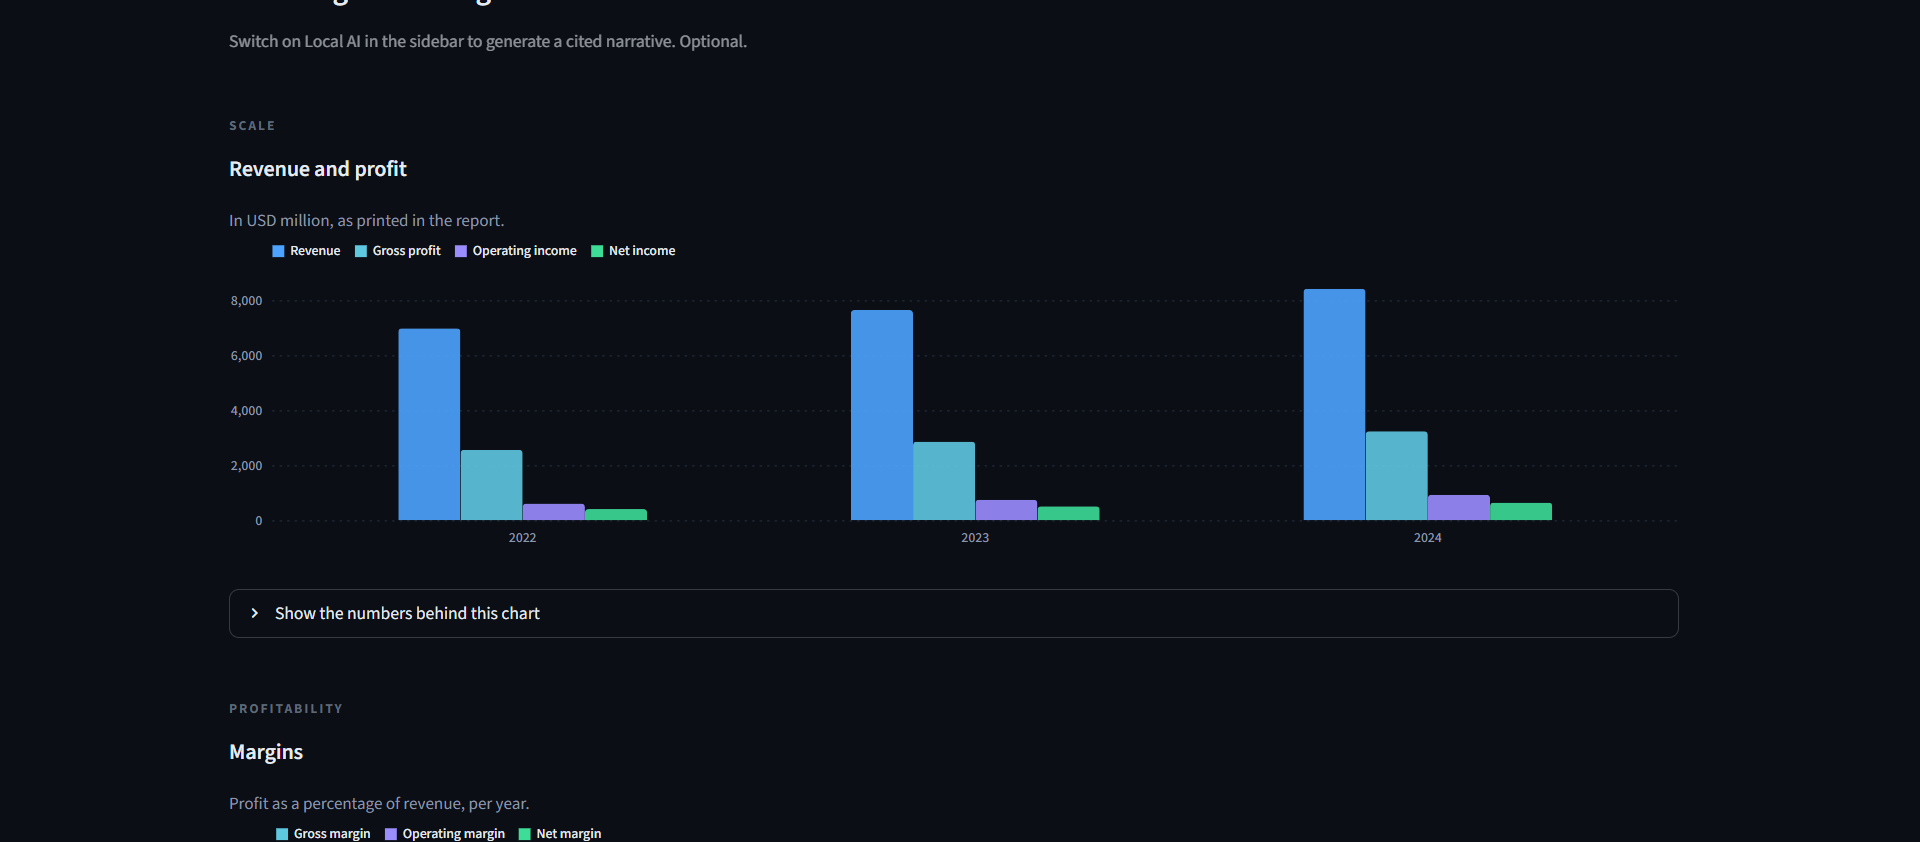
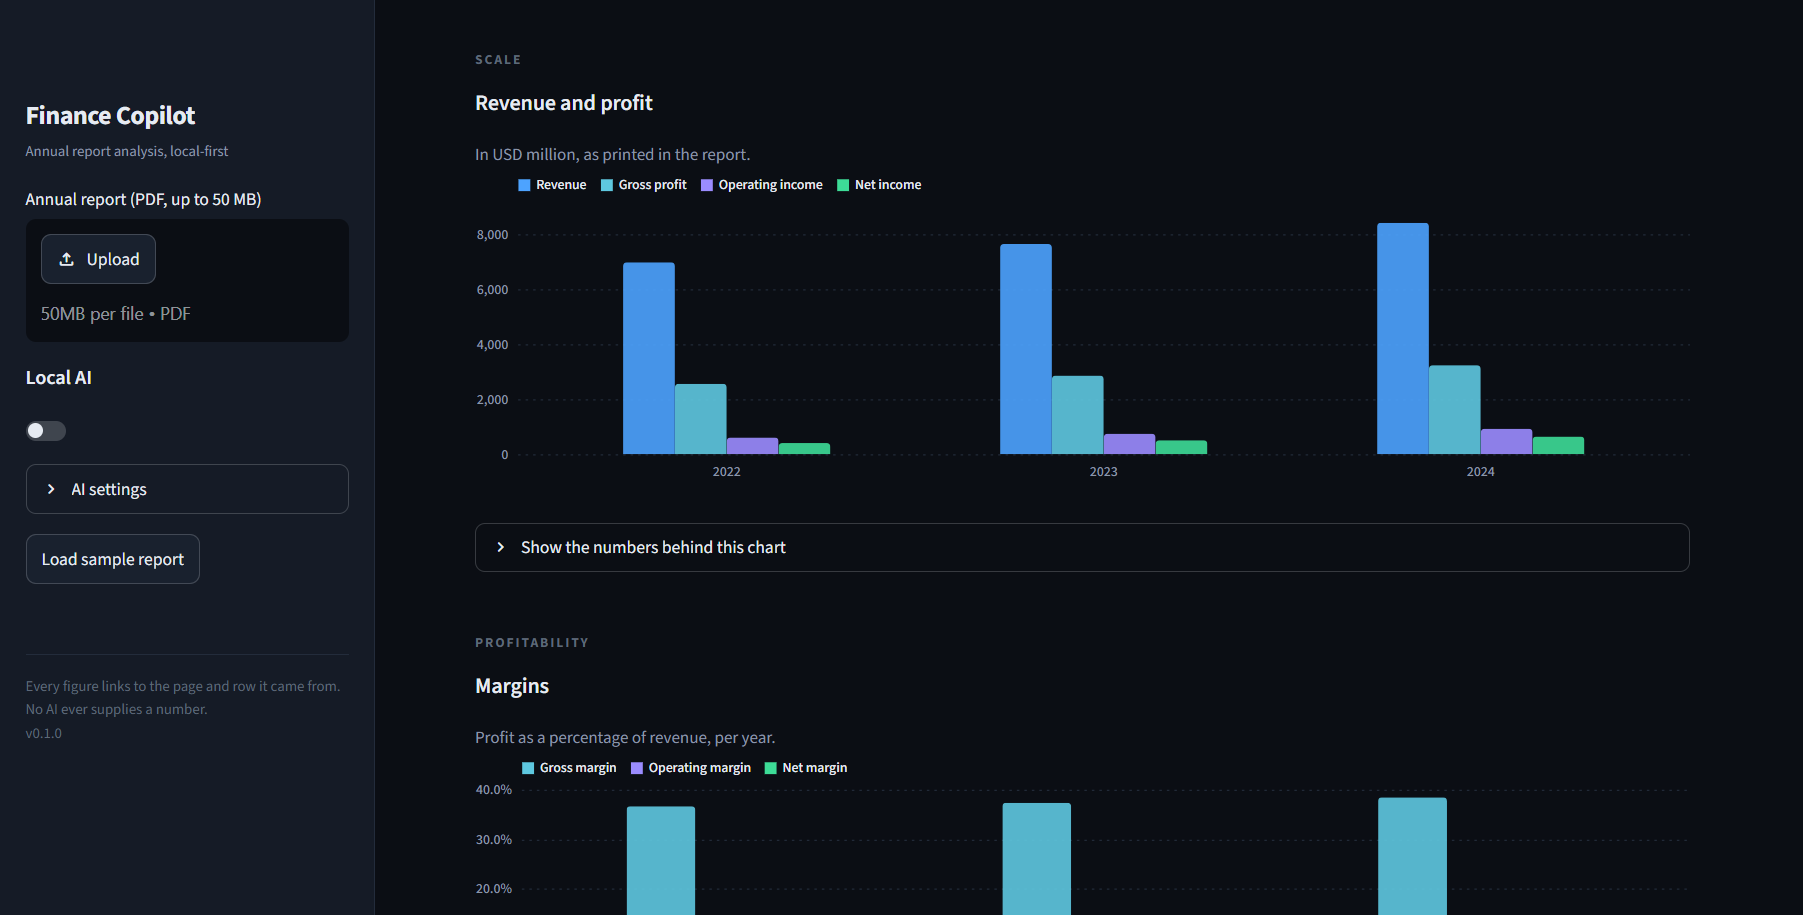
docs: refresh the build notes and every screenshot for the current app
Documents what the four post-pipeline modules (display, views, charts,
panel) each do and why they are separate, adds the Phase 12 second pass
and the Phase 13c redesign to the phase table, and corrects the test
count to 442.

Every screenshot is retaken against the dark redesign at 1440px: the
landing page, the loaded overview, the charts, the balance sheet with
its missing-year notice, the Values and Provenance tabs, and hostile.pdf
showing unavailable KPIs beside a fired rule.

.gitignore now excludes tests/fixtures/real/, the third-party annual
reports used for validation, which are kept locally and never committed.

diff --git a/docs/HOW_IT_WAS_BUILT.md b/docs/HOW_IT_WAS_BUILT.md
@@ -19,7 +19,8 @@ system accurately to engineers. Short on purpose.
    code happened to produce.
 3. **Tests before code, every time.** For each feature the failing test was
    written first, then the smallest code that makes it pass. 297 automated
-   tests existed at Phase 8; 431 exist now. All pass. A lint tool (Ruff) enforces style.
+   tests existed at Phase 8; 442 exist now (441 run by default; one is skipped
+   unless a local Ollama is actually installed). A lint tool (Ruff) enforces style.
 4. **One phase, one commit.** Fourteen phases (0-13), each committed with its tests.
 
 ### Phases 0-8: the deterministic engine
@@ -44,8 +45,10 @@ system accurately to engineers. Short on purpose.
 | 10 | The dashboard (`app.py`): upload, KPI cards, seven tabs, provenance viewer, optional narrative. Verified, low-confidence, and unavailable values render distinctly. `app.py` only formats and lays out; every row it shows is built by `views.py`, which is pure and tested. | rendered headless on the golden, hostile, and ambiguous-period fixtures |
 | 11 | Local SQLite history: five thin tables, results only, never the PDF, values stored as exact decimal text | round-trip, cascade delete, path-stripped names, corrupt file |
 | 12 | Three real annual reports (Apple, Berkshire, Wipro) went from zero values to a coherent set each. Statements printed without ruling lines are now rebuilt from word positions; text with no spaces is re-read; page-split statements rejoin; a report that prints two sets of statements yields one coherent set. | `text_aligned.pdf`, a ninth fixture encoding every real-report case; `docs/PHASE12_VALIDATION.md` |
+| 12b | A second pass over five real reports (the three above plus Microsoft FY24 and a small US bank's 2024 report). One genuine ingestion bug surfaced: a truncated download parses as a valid PDF with zero pages and crashed with `IndexError`; it is now refused at the gate as unreadable. | `docs/PHASE12_VALIDATION.md`, "Second pass, 2026-09-13" |
 | 13 | README, screenshots, security review, a stress pass over the new code with every finding fixed | this document, `docs/SECURITY_REVIEW.md`, `docs/KNOWN_ISSUES.md` |
 | 13b | Visual results: five charts drawn from the analysis (revenue and profit, margins, the balance-sheet identity, a cash waterfall, cross-checks against their tolerance) plus a design pass on the whole page | `src/fincopilot/charts.py` is pure and tested; a chart can only draw a value the analysis produced, and anything unavailable is absent from the picture and named in words |
+| 13c | A dark data-terminal redesign, and charts that respond to the pointer: click a legend entry to isolate a series, hover a mark to bring it forward and dim the rest. The interactivity is declared inside the chart specification itself, so it can only hide or highlight marks that already exist, never change a value. KPI cards and the red-flag grid became hand-written HTML so they could be laid out and animated properly, with the animation dropped entirely when the operating system asks for reduced motion. | `src/fincopilot/panel.py` escapes every string it renders and opens no network connection; the chart tests assert the selection parameters and the palette's contrast choices |
 
 ### The test reports
 
@@ -164,10 +167,28 @@ Never a hard failure. A warning names any dash-zero cells as suspects.
 reports fired, clear, or not evaluated with the reason. The rule decides;
 an AI may later explain a fired rule but never decide one.
 
-**After the line.** The dashboard (`app.py`) only formats what the line produced. The
-history file (`store.py`) keeps the results, not the PDF. The optional narrative
+**After the line.** Four small modules turn the finished result into a page, and
+none of them can change a number:
+
+| Module | What it does | Why it is separate |
+|---|---|---|
+| `display.py` | Turns an exact decimal into the text a person reads: thousands separators, the currency, the scale, the sign. | It is the only place in the system where a number is rounded, so rounding can be reasoned about in one file. |
+| `views.py` | Builds every row and card the page shows, as plain data. | Pure and tested, so what the dashboard shows is checked without a browser. |
+| `charts.py` | Builds the five chart specifications. | It owns the single conversion from exact decimal to floating point in the whole codebase, because charts are JSON and JSON has no exact decimals. Nothing downstream of a chart feeds back into the analysis. |
+| `panel.py` | Writes the HTML for the KPI cards and the red-flag grid. | Every string it inserts is escaped, and it loads nothing over the network. |
+
+`app.py` only wires those together and lays them out. The history file
+(`store.py`) keeps the results, not the PDF. The optional narrative
 (`ai/narrative.py`) is written last, from the finished results, and is thrown away
 whole if it cites anything that does not exist or states a number it was not shown.
+
+### What it looks like
+
+The dashboard is dark on purpose: a report is read for a long time in one
+sitting, and the numbers should be the brightest thing on the screen. Screenshots
+of every part of it, with captions, are in the
+[README](../README.md#what-the-dashboard-shows), and the image files themselves
+are in `docs/screenshots/`.
 
 ### The one idea to remember
 
@@ -176,4 +197,4 @@ and a chain back to the first thing that went wrong, so the answer to "why is
 ROE blank?" is "because equity was not matched, because the balance sheet was
 not found on any page", not a shrug. And every figure that *is* shown can be
 walked back to a printed cell on a numbered page. Those two properties are
-what the 431 tests exist to protect.
+what the 442 tests exist to protect.

diff --git a/README.md b/README.md
@@ -8,8 +8,9 @@ and no AI ever supplies a number.
 
 ![Dashboard overview](docs/screenshots/overview.png)
 
-**Status:** Phases 0-13 complete. Runs entirely on your machine; no data leaves it.
-Validated on three real annual reports (Apple, Berkshire Hathaway, Wipro), see
+**Status:** Phases 0-13 complete. 442 tests, all passing. Runs entirely on your
+machine; no data leaves it. Validated on five real annual reports (Apple,
+Berkshire Hathaway, Wipro, Microsoft, and a small US bank), see
 [docs/PHASE12_VALIDATION.md](docs/PHASE12_VALIDATION.md).
 
 ---
@@ -22,6 +23,8 @@ uv run streamlit run app.py
 ```
 
 Then open http://localhost:8501, upload a PDF, or press **Load sample report**.
+
+![Landing page](docs/screenshots/landing.png)
 
 Command line, no browser:
 
@@ -55,14 +58,33 @@ Every chart has **Show the numbers behind this chart** beneath it, and states in
 anything it could not draw. A value that is unavailable is absent from the chart, never
 plotted as a zero bar.
 
+Charts respond to the pointer: click a legend entry to isolate one series, hover a bar
+to bring it forward and dim the rest. That behaviour is declared inside the chart
+specification, so it can only hide or highlight marks that already exist. It can never
+change a number.
+
+![Revenue, profit and margin charts](docs/screenshots/charts.png)
+
+Here the balance-sheet chart draws 2023 and 2024 and says plainly that 2022 is missing,
+rather than drawing a zero bar for it:
+
 ![Balance sheet and cash charts](docs/screenshots/balance.png)
+
+The Values tab is the same figures as a table, each with the page and row it was read
+from and how it was matched:
 
 ![Values tab](docs/screenshots/values.png)
 
-Values that could not be determined are never blank or zero. They are greyed out and
-carry the reason:
+The Provenance tab walks a single figure back to the printed cell: page, table, row,
+column, the raw text, the scale that was applied, and the value in base units.
 
-![Unavailable values](docs/screenshots/unavailable.png)
+![Provenance tab](docs/screenshots/provenance.png)
+
+Values that could not be determined are never blank or zero. They carry the reason, and
+a rule that could not be evaluated says so instead of passing. This is `hostile.pdf`, the
+fixture built out of everything that can go wrong in a report:
+
+![Unavailable values and a fired red flag](docs/screenshots/unavailable.png)
 
 ## Optional local AI
 
@@ -119,8 +141,12 @@ src/fincopilot/ai/           Ollama client, row picker, grounded narrative
 src/fincopilot/calc/         derived values, ratios, changes, reconciliation
 src/fincopilot/rules/        red-flag rules and thresholds
 src/fincopilot/views.py      dashboard rows and cards (pure, tested)
+src/fincopilot/display.py    the only place a number is rounded for reading
+src/fincopilot/charts.py     the five chart specifications (pure, tested)
+src/fincopilot/panel.py      HTML for the KPI cards and red-flag grid (escaped, offline)
 src/fincopilot/store.py      SQLite history
 tests/fixtures/              nine generated PDFs with hand-computed answers
+docs/screenshots/            the images used in this README
 docs/                        design spec, build notes, validation, security review
 ```
 
